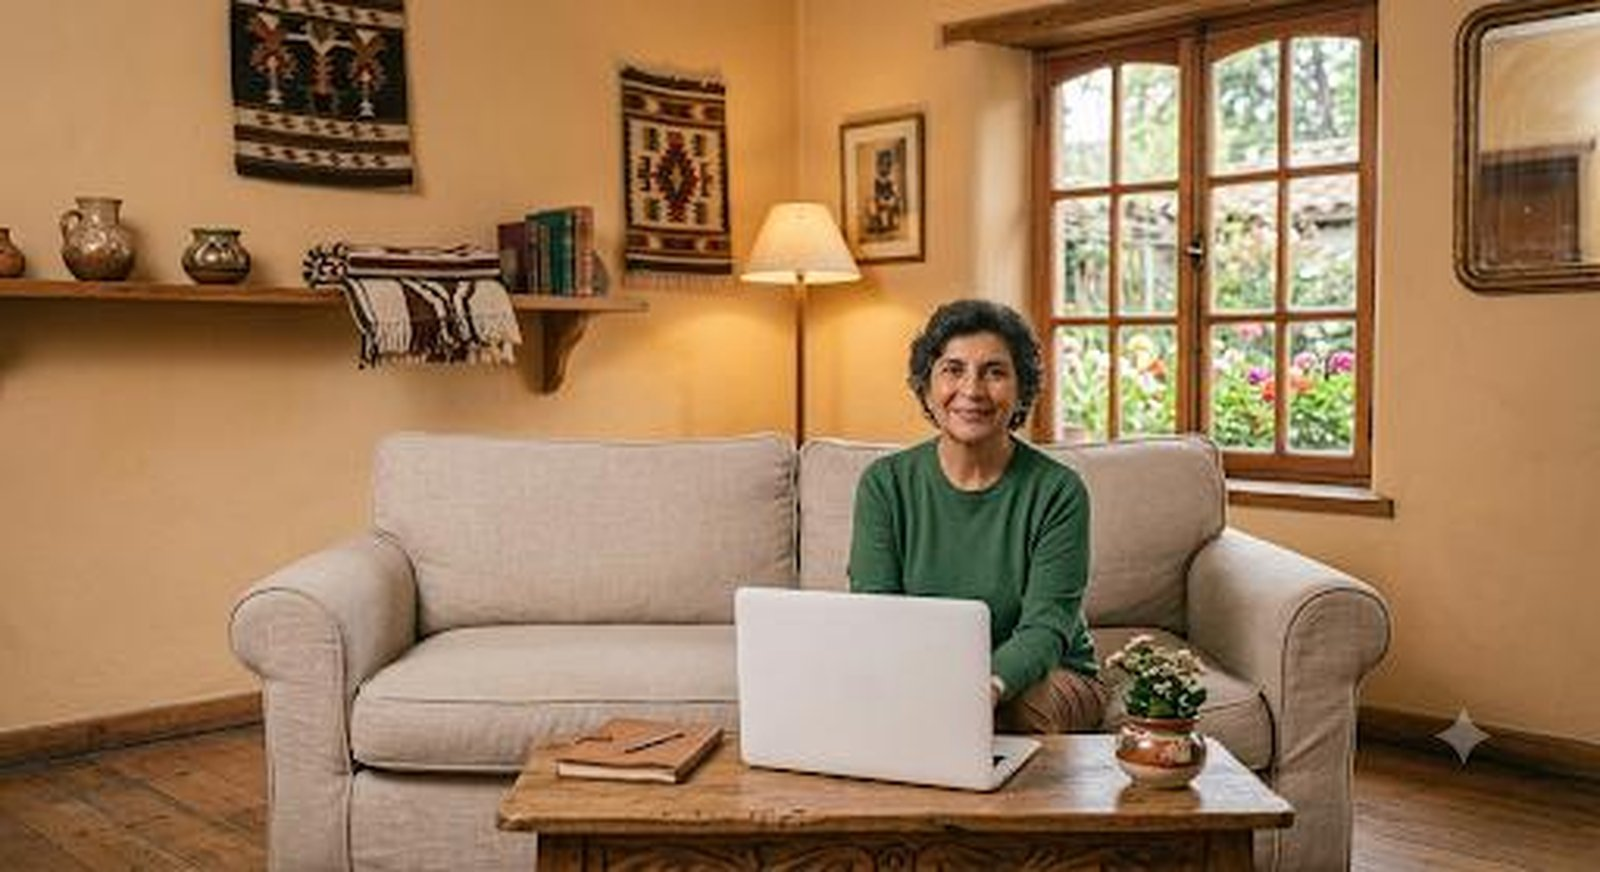
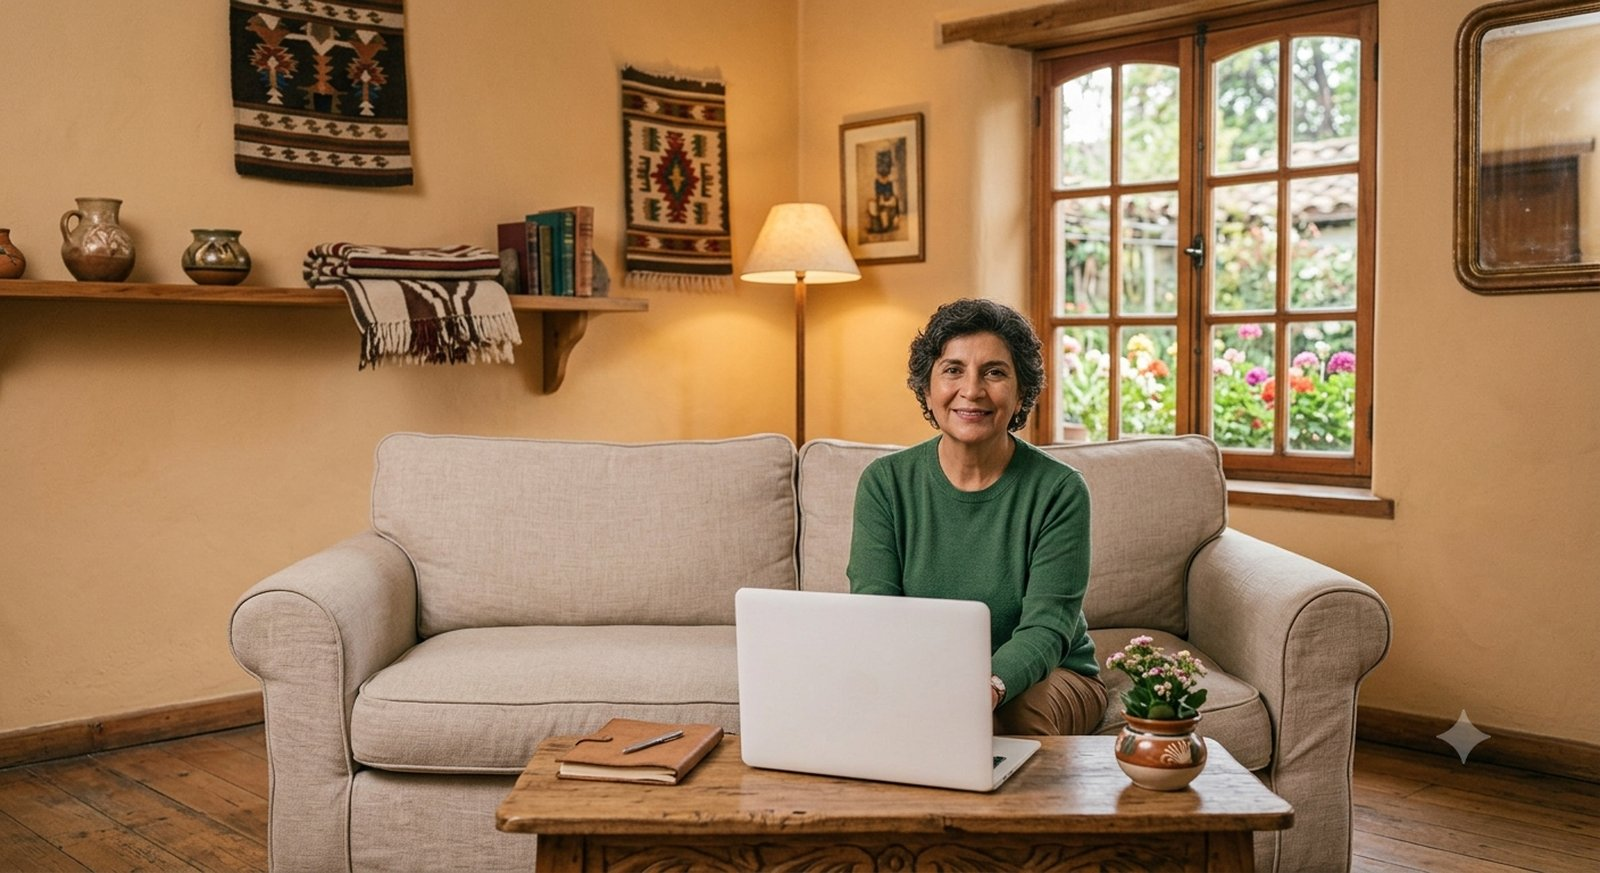
Use high-res patient slide photo and fix caption legibility
Replaces the upscaled 512x279 placeholder with the client's real
1408x768 photo. Also adds a dark gradient scrim behind every hero
caption (not just this slide) so the title/subtitle stay readable
regardless of how busy or light the underlying photo is.

diff --git a/src/CentralPsi.Web/wwwroot/css/site.css b/src/CentralPsi.Web/wwwroot/css/site.css
@@ -81,21 +81,31 @@ a:hover {
   min-height: 380px;
   object-fit: cover;
 }
+.cp-hero .carousel-item::before {
+  content: "";
+  position: absolute;
+  inset: 0;
+  background: linear-gradient(100deg, rgba(10, 20, 18, .78) 0%, rgba(10, 20, 18, .52) 32%, rgba(10, 20, 18, .12) 58%, rgba(10, 20, 18, 0) 75%);
+  pointer-events: none;
+}
 .cp-hero .carousel-caption {
   text-align: left;
   left: 5%;
   right: auto;
   bottom: 12%;
   max-width: 620px;
+  z-index: 3;
 }
 .cp-hero .carousel-caption h1 {
   font-size: 2.4rem;
   font-weight: 800;
-  text-shadow: 0 2px 10px rgba(0,0,0,.25);
+  color: #ffffff;
+  text-shadow: 0 2px 10px rgba(0,0,0,.4);
 }
 .cp-hero .carousel-caption p {
   font-size: 1.15rem;
-  text-shadow: 0 2px 8px rgba(0,0,0,.25);
+  color: #f2f6f5;
+  text-shadow: 0 2px 8px rgba(0,0,0,.4);
 }
 
 /* ---- Sections ---- */
